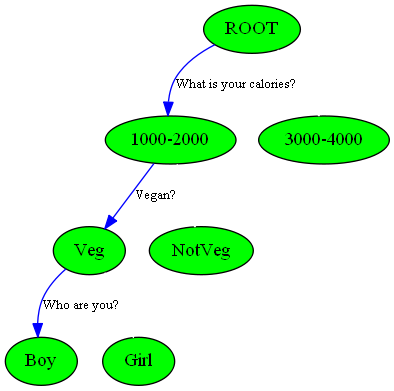
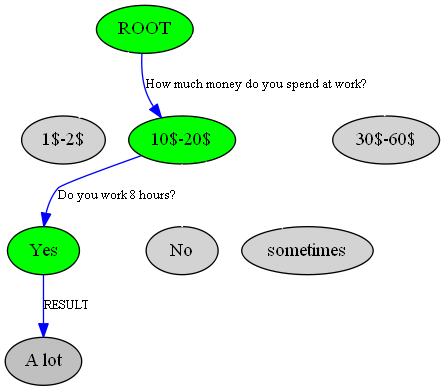
Add Button show graph

diff --git a/GUI/MainWindowController.py b/GUI/MainWindowController.py
@@ -24,6 +24,7 @@ class MainWindowController(QMainWindow):
         self.fill_menu_bar()
         self.esThemesListModel = ESThemesListModel(self)
         self.themes_list_menu = QMenu("Themes list menu", self)
+        self.current_theme_output = ""
         self.init_es_themes_model()
         self.show()
         self.selected_question = INVALID_INDEX
@@ -55,7 +56,9 @@ class MainWindowController(QMainWindow):
     def configure_ui_elements(self):
         self.ui.lblQuestion.setWordWrap(True)
         self.ui.pBNextQuestion.setEnabled(False)
+        self.ui.pbGraph.setEnabled(False)
         self.ui.pBNextQuestion.clicked.connect(self.enable_next_question)
+        self.ui.pbGraph.clicked.connect(self.build_decision_graph)
 
     def rule_editor_action(self):
         rule_editor_controller = RuleEditorController()
@@ -132,9 +135,11 @@ class MainWindowController(QMainWindow):
         remove_action.triggered.connect(self.remove_menu_action_triggered)
 
     def set_initial_question(self):
+        self.current_theme_facts = Fact()
         self.ui.gbQuestions.setTitle("QUESTIONS")
         self.ui.gBAnswers.setTitle("ANSWERS")
         self.ui.gBMain.setTitle("Expert system theme is chosen, please answer all questions")
+        self.ui.pbGraph.setEnabled(False)
         self.ui.pBNextQuestion.setEnabled(True)
         self.selected_question = self.INITIAL_QUESTION_INDEX
         self.set_next_question()
@@ -146,7 +151,6 @@ class MainWindowController(QMainWindow):
         if self.selected_question < self.esThemesListModel.get_current_theme_questions_number():
             self.set_next_question()
         else:
-            self.build_decision_graph()
             self.prepare_theme_output()
 
     def set_next_question(self):
@@ -194,6 +198,7 @@ class MainWindowController(QMainWindow):
         self.esThemesListModel.remove_theme_at(selected_theme_index)
         self.clear_answers_and_questions()
         self.ui.pBNextQuestion.setEnabled(False)
+        self.ui.pbGraph.setEnabled(False)
 
     def on_check_box_tooltip_checked(self, checked):
         self.is_tooltip_needed = checked
@@ -214,7 +219,7 @@ class MainWindowController(QMainWindow):
         main_expert_engine.reset()
         main_expert_engine.declare(self.current_theme_facts)
         main_expert_engine.run()
-        self.current_theme_facts = Fact()
+        self.current_theme_output = main_expert_engine.get_output()
 
         self.ui.lblQuestion.setText(main_expert_engine.get_output())
         self.ui.gbQuestions.setTitle("Your output:")
@@ -222,6 +227,7 @@ class MainWindowController(QMainWindow):
         self.ui.pBNextQuestion.setEnabled(False)
         self.ui.listViewESThemes.clearSelection()
         self.ui.gBMain.setTitle("Please choose one theme from the list")
+        self.ui.pbGraph.setEnabled(True)
 
     def build_decision_graph(self):
         import pydotplus
@@ -259,6 +265,7 @@ class MainWindowController(QMainWindow):
         selected_prev_node = pydotplus.Node()
         ultimate_prev_node = pydotplus.Node()
         rootNode = pydotplus.Node("ROOT", style="filled", fillcolor="green")
+        node_to_attach = rootNode
         questions_graph.add_node(rootNode)
 
         facts = self.current_theme_facts
@@ -274,37 +281,41 @@ class MainWindowController(QMainWindow):
                 node = pydotplus.Node(answer, style="filled", fillcolor="green")
                 questions_graph.add_node(node)
 
-                if index > 0:
-                    if answer == facts[key] and selected_prev_node.get_name() != '""':
-                        questions_graph.add_edge(pydotplus.Edge(ultimate_prev_node, node, label=key, labelfontcolor="#009933", fontsize="10.0", color="blue"))
-                        print()
-                    else:
-                        questions_graph.add_edge(pydotplus.Edge(ultimate_prev_node, node, label="", labelfontcolor="#009933", fontsize="10.0", color="white"))
+                fill_color = ""
+                label_str = ""
+                edge_color = ""
 
-                elif index == 0 and answer == facts[key]:
-                    questions_graph.add_edge(pydotplus.Edge(rootNode, node, label=key, labelfontcolor="#009933", fontsize="10.0",color="blue"))
+                if index > 0:
+                    node_to_attach = ultimate_prev_node
+                    if answer == facts[key] and selected_prev_node.get_name() != '""':
+                        label_str = key
+                        edge_color = "blue"
+                        fill_color = "green"
+                    else:
+                        label_str = ""
+                        edge_color = "white"
                 else:
-                    rootNode = pydotplus.Node("ROOT", style="filled", fillcolor="green")
-                    questions_graph.add_edge(pydotplus.Edge(rootNode, node, label="", labelfontcolor="#009933", fontsize="10.0",color="white"))
+                    node_to_attach = rootNode
+                    if answer == facts[key]:
+                        edge_color = "blue"
+                        label_str = key
+                        fill_color = "green"
+                    else:
+                        label_str = ""
+                        edge_color = "white"
 
                 if answer == facts[key]:
                     selected_prev_node = node
 
+                node = pydotplus.Node(answer, style="filled", fillcolor=fill_color)
+                questions_graph.add_node(node)
+                questions_graph.add_edge(pydotplus.Edge(node_to_attach, node, label=label_str, labelfontcolor="#009933", fontsize="10.0",color=edge_color))
+
             ultimate_prev_node = selected_prev_node
 
-
-        # for index, key in enumerate(questions):
-        #     node = pydotplus.Node(key, style="filled", fillcolor="green")
-        #     questions_graph.add_node(node)
-        #     print(index, key)
-        #     if index > 0:
-        #         for index, answer in enumerate(questions[prev_key]):
-        #             new_node_text = str(index + 1) + ". " + key
-        #             new_node = pydotplus.Node(new_node_text, style="filled", fillcolor="green")
-        #             questions_graph.add_edge(pydotplus.Edge(prev_node, new_node, label=answer, labelfontcolor="#009933",fontsize="10.0", color="blue"))
-        #             # questions_graph.add_edge(pydotplus.Edge(prev_node, node, label=answer))
-        #     prev_node = node
-        #     prev_key = key
+        node = pydotplus.Node(self.ui.lblQuestion.text(), style="filled", fillcolor="Grey")
+        questions_graph.add_node(node)
+        questions_graph.add_edge(pydotplus.Edge(ultimate_prev_node, node, label="RESULT", labelfontcolor="#009933", fontsize="10.0",color="blue"))
 
         facts = self.current_theme_facts
         for fact, value in facts.items():

diff --git a/GUI/Views/MainWindowView.py b/GUI/Views/MainWindowView.py
@@ -6,7 +6,7 @@
 #
 # WARNING! All changes made in this file will be lost!
 
-from PyQt5 import QtCore, QtWidgets
+from PyQt5 import QtCore, QtGui, QtWidgets
 
 class Ui_MainWindow(object):
     def setupUi(self, MainWindow):
@@ -189,6 +189,14 @@ class Ui_MainWindow(object):
         self.verticalLayout.addWidget(self.gBAnswers)
         self.horizontalLayout = QtWidgets.QHBoxLayout()
         self.horizontalLayout.setObjectName("horizontalLayout")
+        self.pbGraph = QtWidgets.QPushButton(self.gBMain)
+        sizePolicy = QtWidgets.QSizePolicy(QtWidgets.QSizePolicy.Maximum, QtWidgets.QSizePolicy.Fixed)
+        sizePolicy.setHorizontalStretch(0)
+        sizePolicy.setVerticalStretch(0)
+        sizePolicy.setHeightForWidth(self.pbGraph.sizePolicy().hasHeightForWidth())
+        self.pbGraph.setSizePolicy(sizePolicy)
+        self.pbGraph.setObjectName("pbGraph")
+        self.horizontalLayout.addWidget(self.pbGraph)
         self.pBNextQuestion = QtWidgets.QPushButton(self.gBMain)
         sizePolicy = QtWidgets.QSizePolicy(QtWidgets.QSizePolicy.Fixed, QtWidgets.QSizePolicy.Fixed)
         sizePolicy.setHorizontalStretch(0)
@@ -223,6 +231,7 @@ class Ui_MainWindow(object):
         self.gBMain.setTitle(_translate("MainWindow", "Please choose one theme from the list"))
         self.gbQuestions.setTitle(_translate("MainWindow", "Questions"))
         self.gBAnswers.setTitle(_translate("MainWindow", "Answers"))
+        self.pbGraph.setText(_translate("MainWindow", "Show Graph"))
         self.pBNextQuestion.setText(_translate("MainWindow", "Next\n"
 "Question"))
         self.lblThemes.setText(_translate("MainWindow", "EXPERT SYSTEM THEMES"))

diff --git a/GUI/Views/SemanticEditorView.py b/GUI/Views/SemanticEditorView.py
@@ -6,7 +6,7 @@
 #
 # WARNING! All changes made in this file will be lost!
 
-from PyQt5 import QtCore, QtWidgets
+from PyQt5 import QtCore, QtGui, QtWidgets
 
 class Ui_SemanticEditor(object):
     def setupUi(self, SemanticEditor):

diff --git a/GUI/Views/RuleEditorView.py b/GUI/Views/RuleEditorView.py
@@ -6,7 +6,7 @@
 #
 # WARNING! All changes made in this file will be lost!
 
-from PyQt5 import QtCore, QtWidgets
+from PyQt5 import QtCore, QtGui, QtWidgets
 
 class Ui_RuleEditor(object):
     def setupUi(self, RuleEditor):
